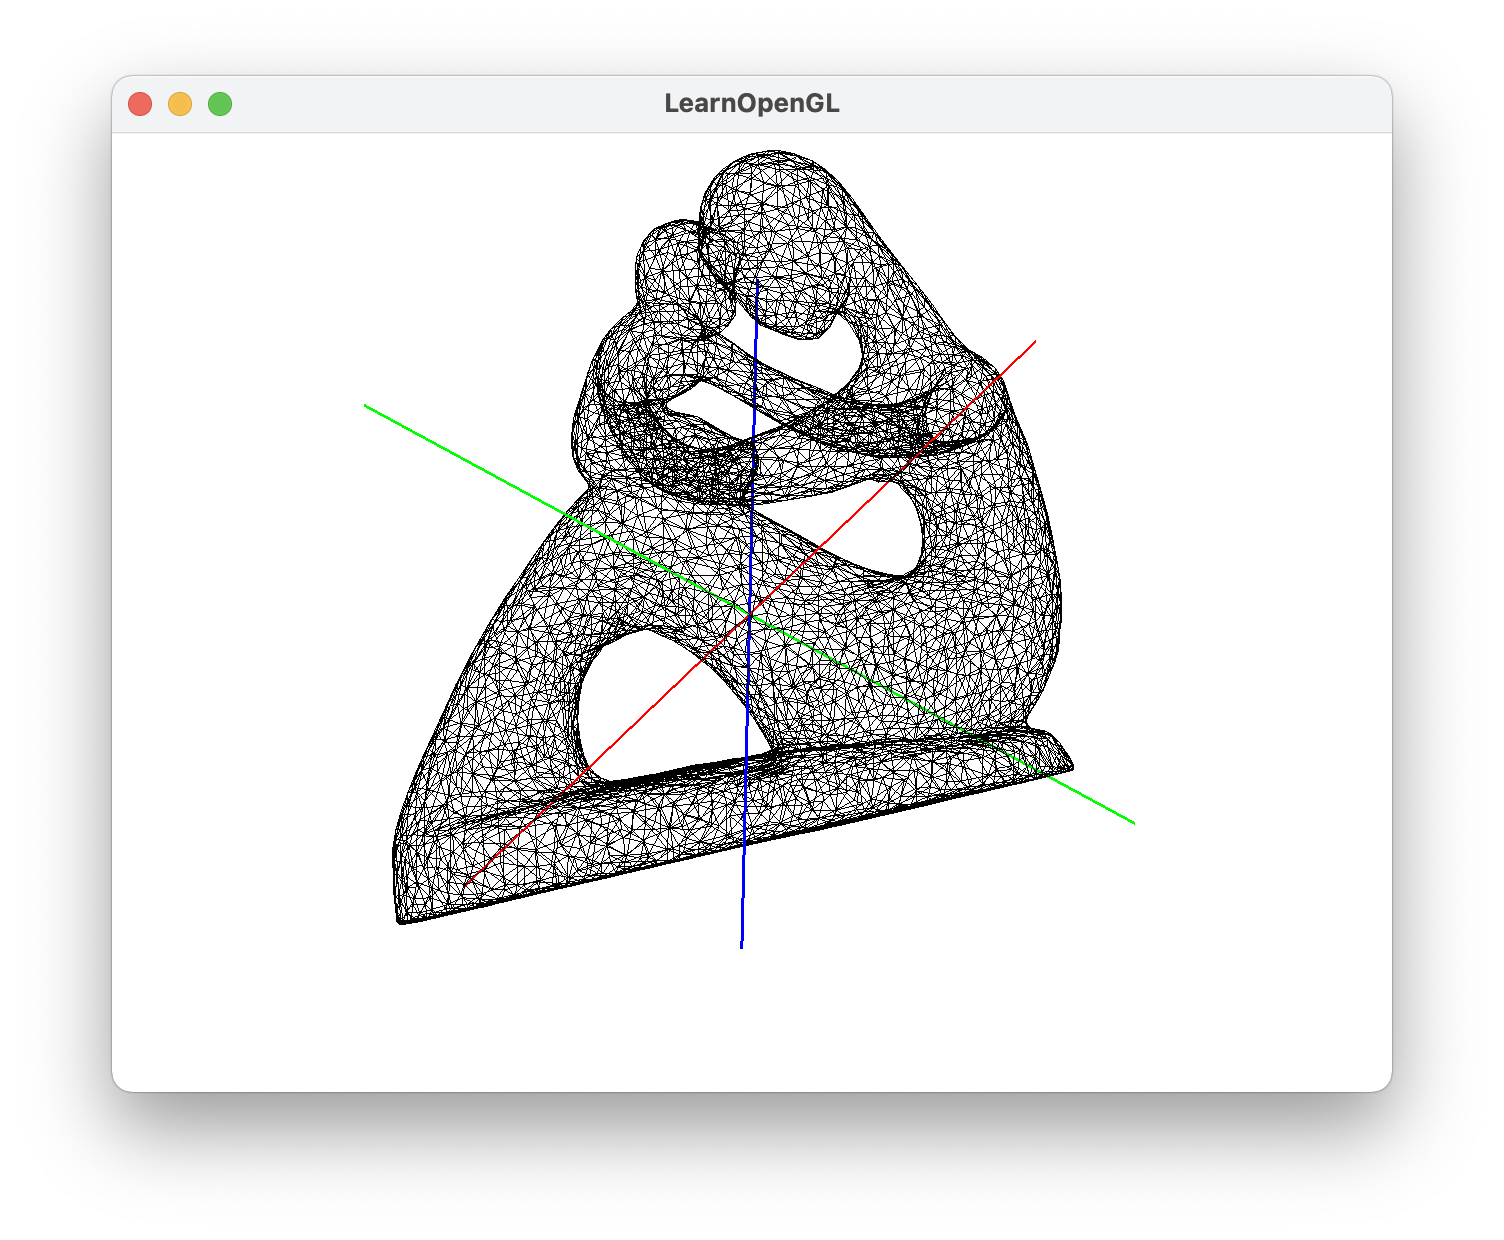
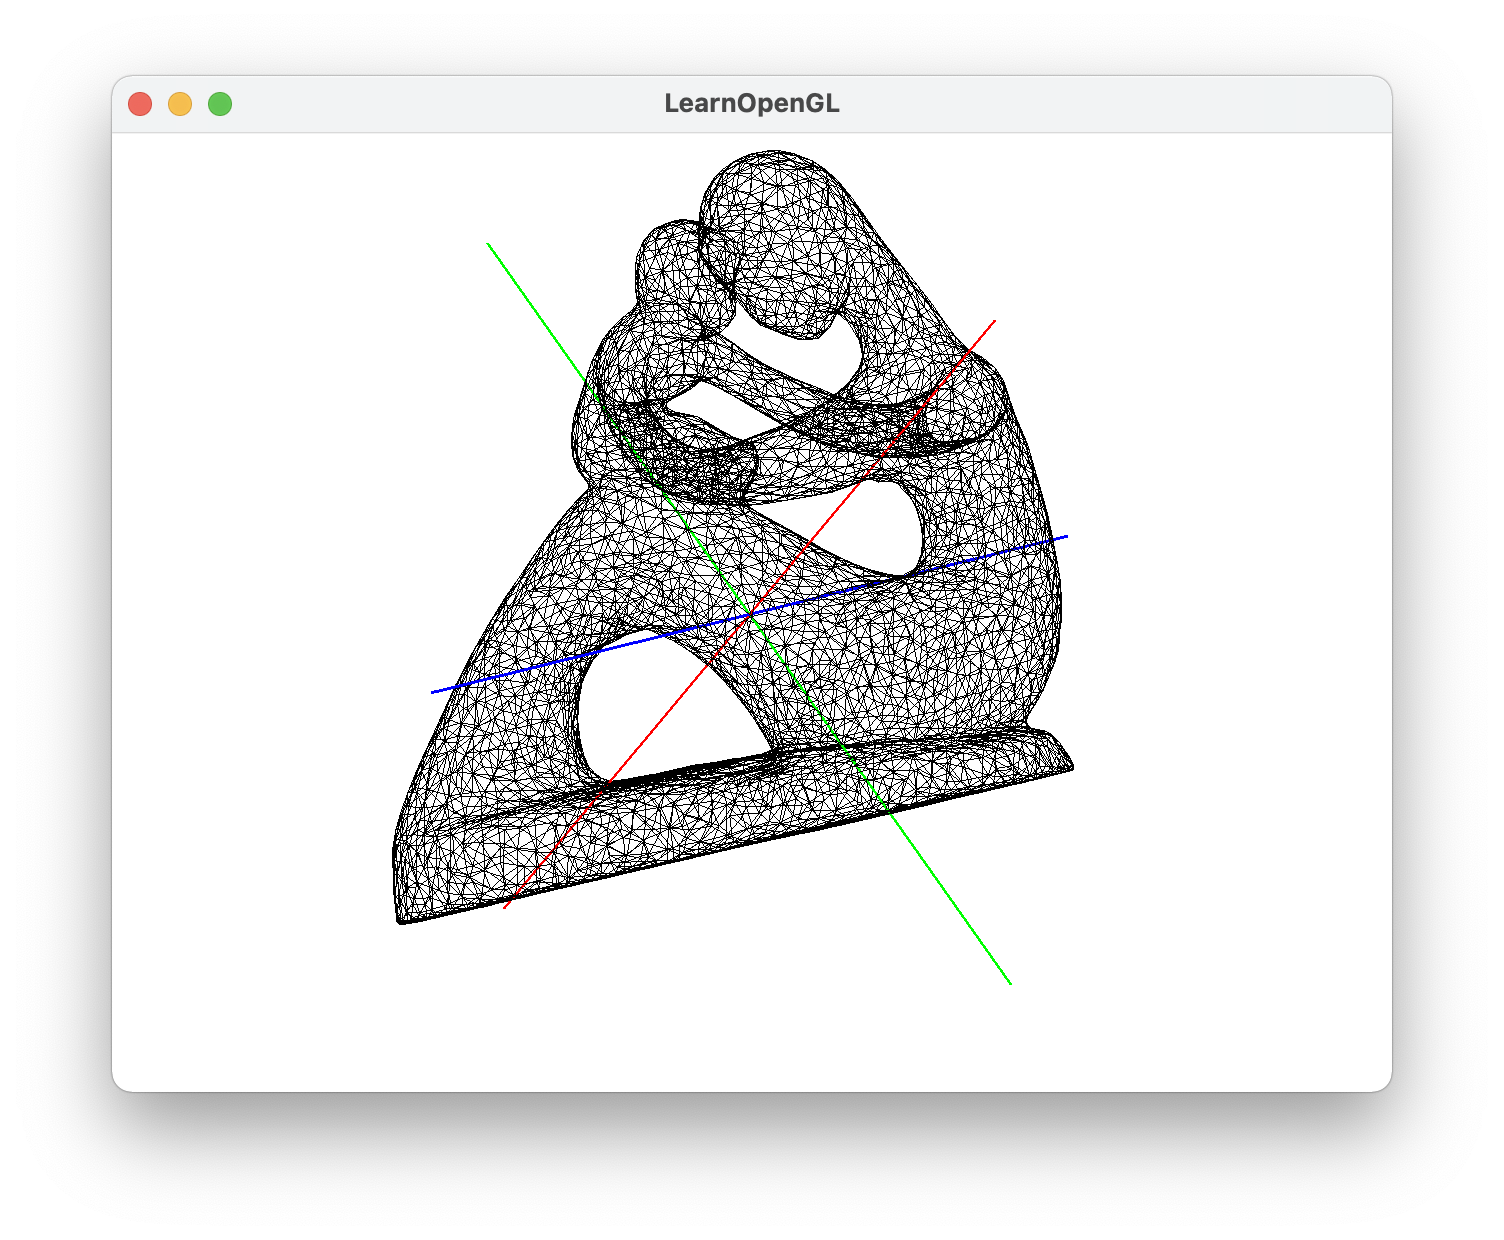
task11 updated (I had forgotten to push the latest commit)

Changed region(s): [[0.4688, 0.4597, 0.5312, 0.521], [0.4062, 0.5823, 0.4375, 0.6129]]

diff --git a/task11/main.cpp b/task11/main.cpp
@@ -57,17 +57,22 @@ void InertiaTensor(
     };
     const double area = (ap[1]-ap[0]).cross(ap[2]-ap[0]).norm()/2; // area of triangle
     // write some code below to compute inertia tensor
+    const Eigen::Matrix3d& I = Eigen::Matrix3d::Identity();
+    for (int i = 0; i < 3; ++i)
+    {
+      for (int j = 0; j < 3; ++j)
+      {
+        if (i == j)
+        {
+          Imat -= area * (ap[i]*ap[j].transpose() - ap[i].dot(ap[j])*I)/6;
+        }
+        else
+        {
+          Imat -= area * (ap[i]*ap[j].transpose() - ap[i].dot(ap[j])*I)/12;
+        }
 
-    Imat(0,0) = area/15 * ap[0](0);
-    Imat(0,1) = -area/60 * ap[0](0);
-    Imat(0,2) = -area/60 * ap[0](0);
-    Imat(1,0) = -area/60 * ap[1](0);
-    Imat(1,1) = area/15 * ap[1](0);
-    Imat(1,2) = -area/60 * ap[1](0);
-    Imat(2,0) = -area/60 * ap[2](0);
-    Imat(2,1) = -area/60 * ap[2](0);
-    Imat(2,2) = area/15 * ap[2](0);
-
+      }
+    }
   }
 }
 

diff --git a/task11/README.md b/task11/README.md
@@ -54,9 +54,9 @@ The inertia tensor should computed for the **rotation around the origin of the c
 The line in red, blue and green are the principal axes of the inertia tensor.
 
 Write down the eigenvalues of the inertia tensor below (they will be shown in the standard output):
-- 1st eigenvalue: 2.05344 
-- 2nd eigenvalue: 5.16522 
-- 3rd eigenvalue: 5.26532
+- 1st eigenvalue: 8.97496e+07 1.81004e+08 2.34771e+08
+- 2nd eigenvalue: 1.81004e+08 
+- 3rd eigenvalue: 2.34771e+08
 
 
 Paste the screenshot image below:
